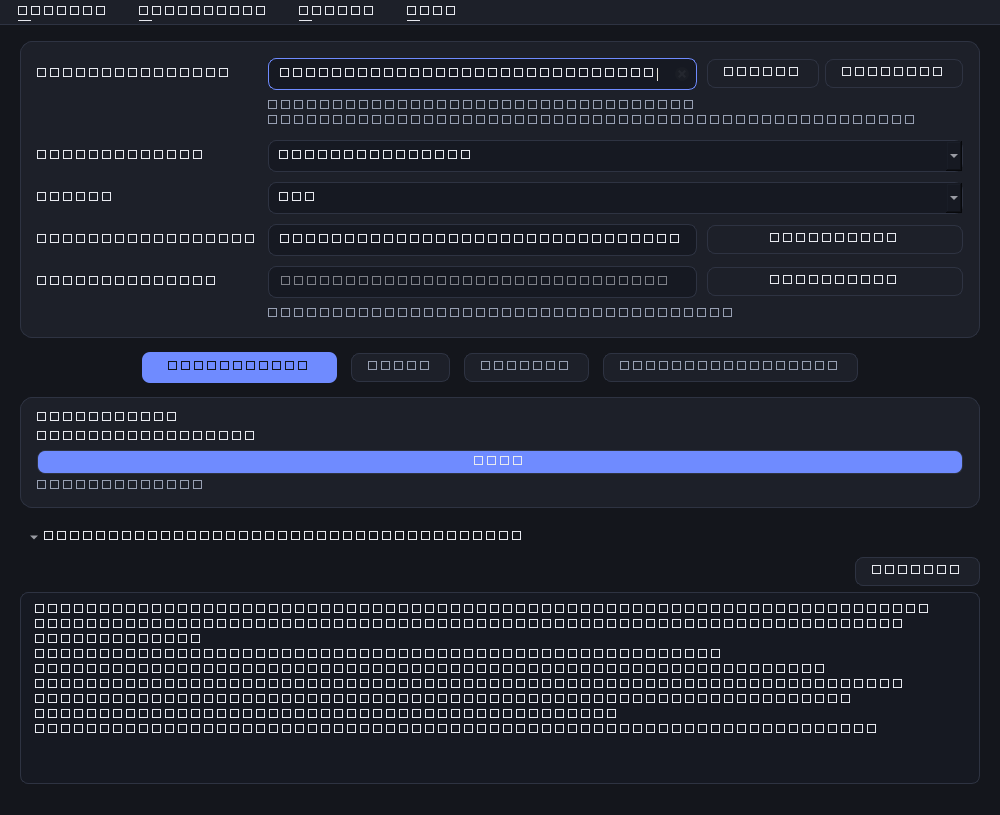
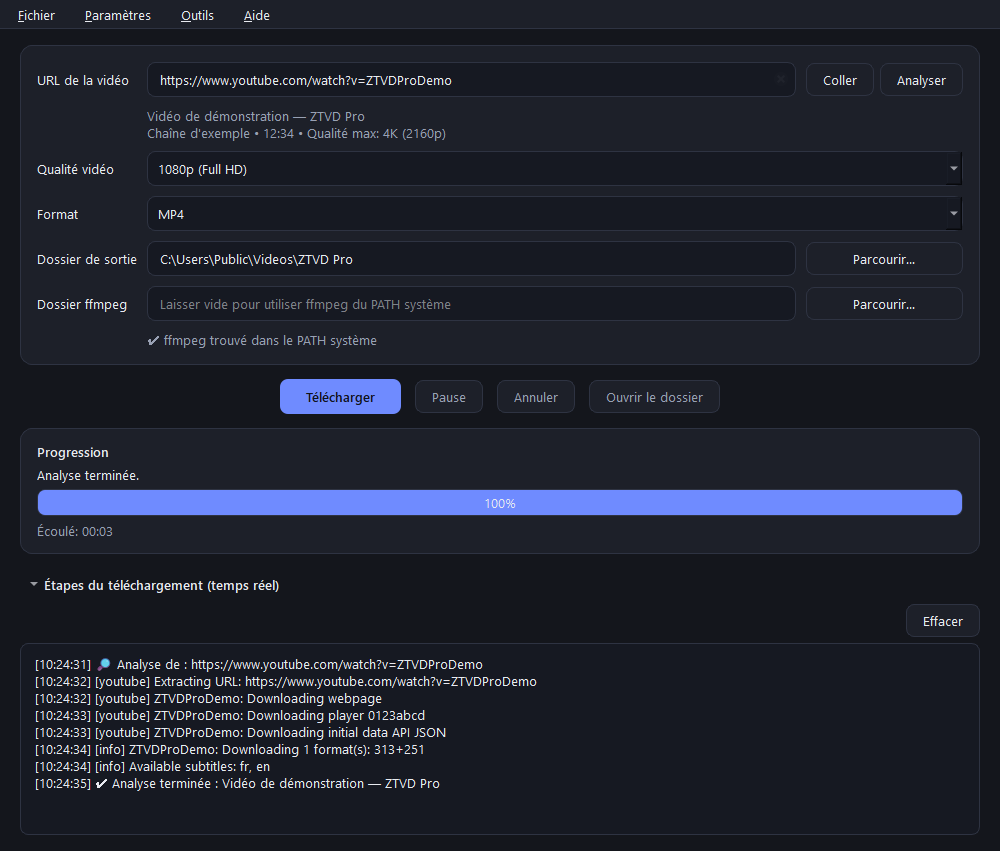
fix(docs): regenerate screenshots with native fonts
La plateforme Qt offscreen ne charge aucune police sous Windows :
QFontDatabase.families() renvoie 0 et chaque glyphe (texte, emojis)
etait rendu en carre. Le script utilise desormais la plateforme native
avec WA_DontShowOnScreen, et echoue explicitement si aucune police
n'est disponible.

diff --git a/tools/make_screenshot.py b/tools/make_screenshot.py
@@ -1,23 +1,26 @@
-"""Génère les captures d'écran du README (mode Qt offscreen).
+"""Génère les captures d'écran du README.
 
-    .venv\\Scripts\\python.exe tools\\make_screenshot.py
+    .venv\\Scripts\\python.exe tools/make_screenshot.py
+
+Le rendu utilise la plateforme Qt native avec une fenêtre non affichée
+(``WA_DontShowOnScreen``). La plateforme ``offscreen`` n'est volontairement pas
+utilisée : sous Windows elle ne charge aucune police, si bien que tous les
+glyphes (texte, emojis) sont rendus en carrés.
 
 Les captures montrent un état analysé mais aucun téléchargement réel : l'URL et
 les métadonnées sont fictives, et les chemins affichés sont neutres.
 """
 from __future__ import annotations
 
-import os
 import sys
 import tempfile
 from pathlib import Path
-
-os.environ.setdefault("QT_QPA_PLATFORM", "offscreen")
 
 ROOT = Path(__file__).resolve().parent.parent
 sys.path.insert(0, str(ROOT))
 
 from PySide6.QtCore import QSettings, Qt
+from PySide6.QtGui import QFontDatabase
 from PySide6.QtWidgets import QApplication
 
 from app import i18n
@@ -79,6 +82,14 @@ def main() -> int:
     app.setOrganizationName("ZTVDProScreenshot")
     app.setStyle("Fusion")
 
+    families = QFontDatabase.families()
+    if not families:
+        print(
+            "Aucune police système disponible : les captures contiendraient des "
+            "carrés. Utilisez la plateforme Qt native (sans QT_QPA_PLATFORM=offscreen)."
+        )
+        return 1
+
     from app.main_window import MainWindow
 
     OUTPUT.mkdir(parents=True, exist_ok=True)
@@ -95,6 +106,7 @@ def main() -> int:
 
         window = MainWindow(settings)
         window.resize(1000, 900)
+        window.setAttribute(Qt.WidgetAttribute.WA_DontShowOnScreen, True)
         window.show()
         _prepare(window, app)
         # Ajuste la hauteur au contenu réel pour éviter une zone vide en bas.
